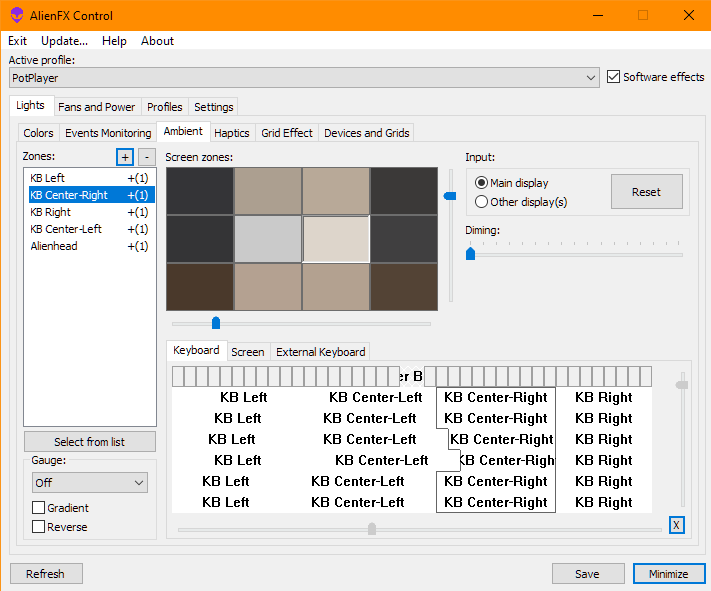
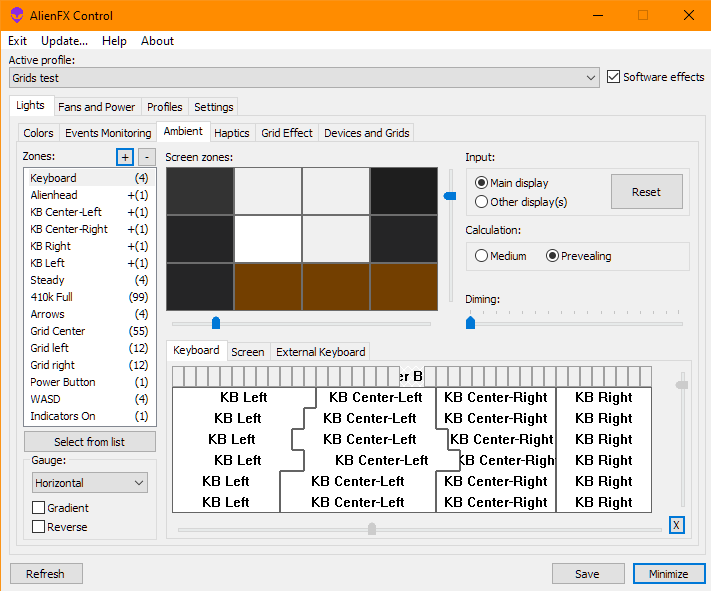
Doc and UI update

diff --git a/alienfx-cli/alienfx-cli.cpp b/alienfx-cli/alienfx-cli.cpp
@@ -131,7 +131,7 @@ vector<AlienFX_SDK::Afx_action> ParseActions(vector<ARG>* args, int startPos) {
 
 int main(int argc, char* argv[])
 {
-	printf("alienfx-cli v8.1.3\n");
+	printf("alienfx-cli v8.1.4\n");
 	if (argc < 2)
 	{
 		printUsage();

diff --git a/alienfan-tools/alienfan-cli/alienfan-cli.cpp b/alienfan-tools/alienfan-cli/alienfan-cli.cpp
@@ -140,7 +140,7 @@ setbrightness=<brightness>\tSet lights brightness\n\
 
 int main(int argc, char* argv[])
 {
-    printf("AlienFan-CLI v8.1.2\n");
+    printf("AlienFan-CLI v8.1.4\n");
 
     AlienFan_SDK::Lights* lights = NULL;
 

diff --git a/Doc/alienfx-gui.md b/Doc/alienfx-gui.md
@@ -130,6 +130,10 @@ For gauge zones, zone will follow the difference between screen color and black.
 You can select which display (primary or all secondary) to follow, as well as define dimming to make light brightness be balanced with screen brightness.  
 "Reset" button restart color capturing from screen, it's useful in some situations like DirectX 12 game quit.
 
+"Calculation" block defines ambient color calculation algorithm:
+- Medium - color will be calculated as an average value between all block colors. Can be not so precise if many different colors into block.
+- Prevailing - detection of the color most present into the block. Precise and fast, but can provide incorrect result if no prevailing color.
+
 "Screen zones" grid define which screen area current zone will follow. Click on corresponding are to add/remove it to zone reactions.
 In case of "Ambient" effect active, button colors will filled from the screen one.
 Sliders below and right to screen area grid used to change grid density, providing more or less areas screen will be divided. Default is 4x3.  
